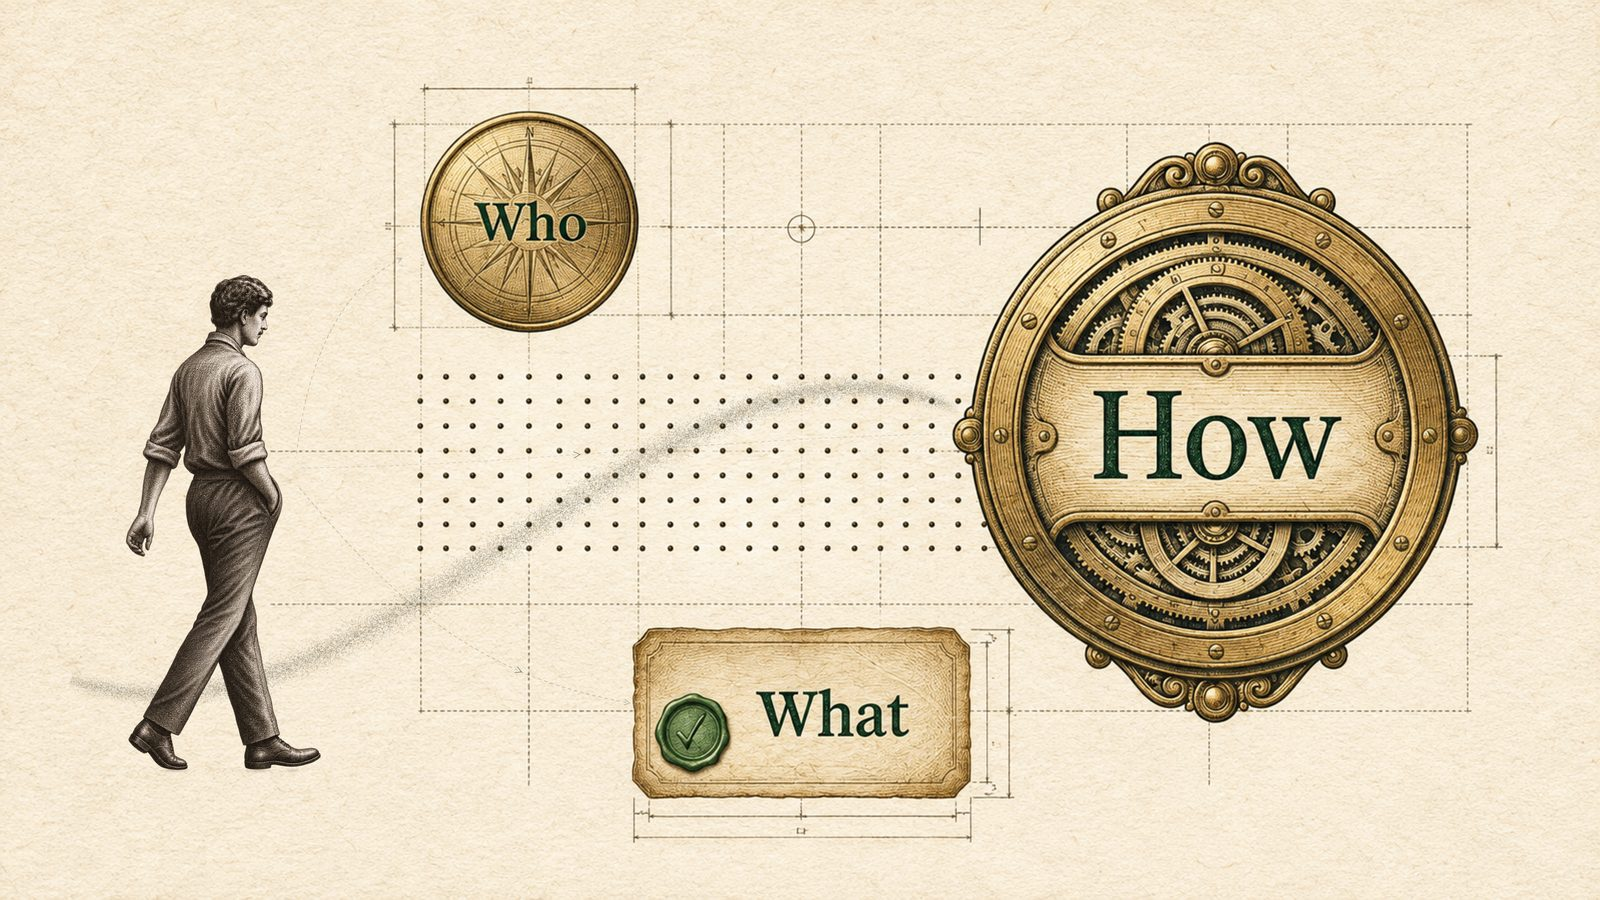
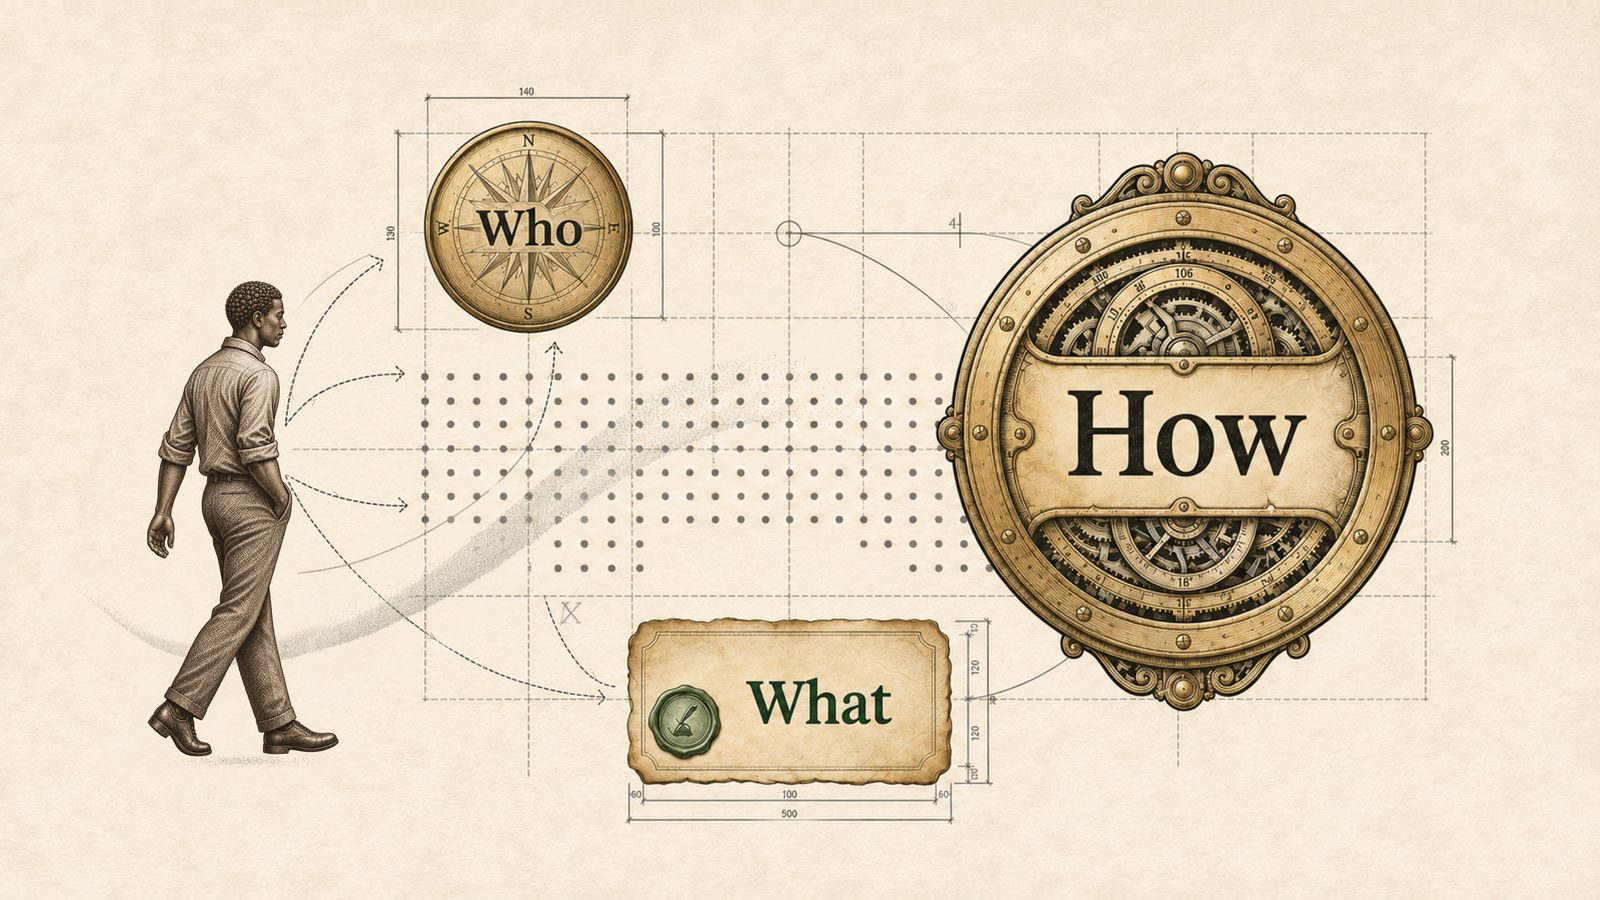
Chapter one: new animation frames

Changed region(s): [[0.0312, 0.0933, 0.9375, 0.9333]]

diff --git a/index.html b/index.html
@@ -1251,7 +1251,7 @@ function coverHtml() {
   const alt = L('An illustrated man walks past three plaques: Who, What and How', '一幅插画：一个人走过“谁、做什么、怎么做”三块铭牌');
   const hs = (k, label, shape) => `<g class="hs" data-k="${k}" tabindex="0" role="button" aria-label="${label}">${shape}</g>`;
   const art = `<img class="wwh" src="art/wwh.webp" width="1600" height="900" alt="${esc(alt)}" decoding="async"><svg viewBox="0 0 1600 900" focusable="false" aria-hidden="false">
-    ${hs(0, 'Who', '<ellipse cx="530" cy="223" rx="112" ry="112"/>')}${hs(1, 'What', '<rect x="634" y="627" width="336" height="171" rx="14"/>')}${hs(2, 'How', '<ellipse cx="1218" cy="428" rx="262" ry="290"/>')}</svg>`;
+    ${hs(0, 'Who', '<ellipse cx="528" cy="232" rx="108" ry="108"/>')}${hs(1, 'What', '<rect x="626" y="618" width="326" height="168" rx="14"/>')}${hs(2, 'How', '<ellipse cx="1178" cy="430" rx="246" ry="282"/>')}</svg>`;
   const it = (name, sub, body) => `<li><button type="button" class="st-row" aria-expanded="false"><i class="mk" aria-hidden="true"></i><b>${name}</b><small class="sub">${sub}</small></button><div class="st-det"><div>${body}</div></div></li>`;
   const who = ZH ? `<p>我善于解决问题，是一名用户行为架构师，关注人们如何在系统中思考、行动和适应。</p><p>我能发现哪里让人用得不顺，界定真正的问题，并给出实用的解决方案：产品、原型、学习项目，以及一个组织的运作方式。</p><p>我曾从零创建并带领团队，设计 AI 课程并培训教师使用 AI，还为一家公司搭建了组织结构和衡量目标的统一方法。</p><p>我的工作横跨工程、设计与教育，也横跨不同文化，用英语和普通话把复杂的想法变成人们用得上的东西。</p>`
     : `<p>I am a problem solver and user behavior architect focused on how people think, act and adapt within systems.</p><p>I notice what isn't working for people, define the real problem, and build practical solutions: products, prototypes, learning programs and the way an organisation runs.</p><p>I have founded and led a team from scratch, designed AI curricula and trained teachers to use AI, and developed a company's organisational structure and standardised ways of measuring its goals.</p><p>I work across engineering, design and education, and across cultures in English and Mandarin, turning complex ideas into things people can use.</p>`;
